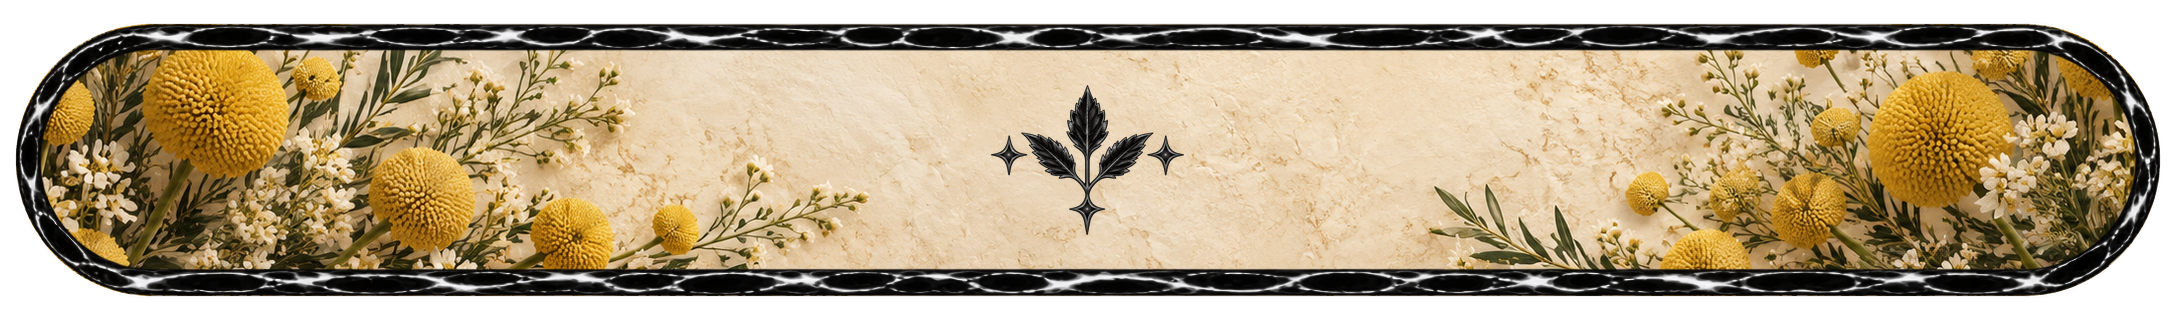
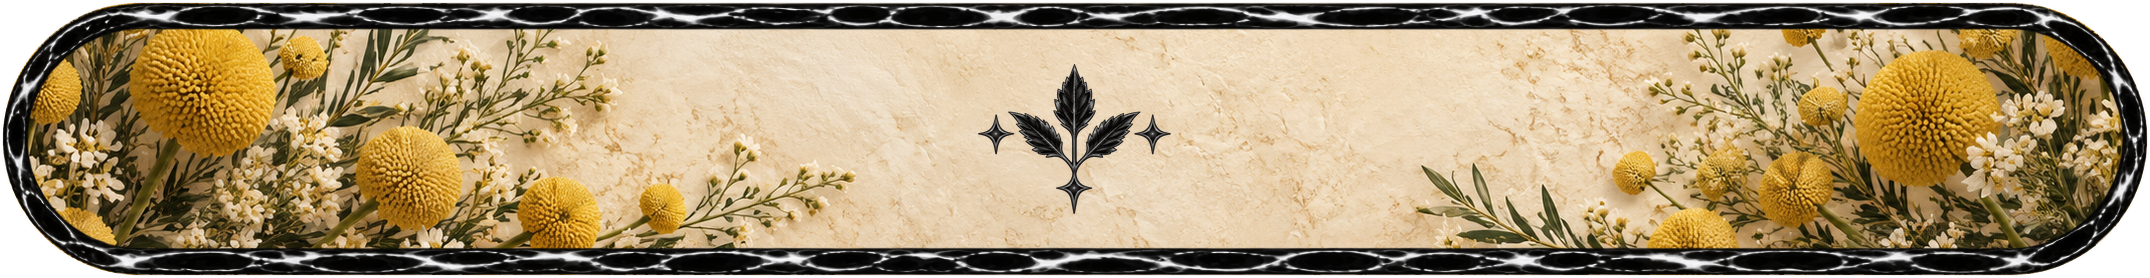
Updated footers

diff --git a/src/ky_bot/views/settings.py b/src/ky_bot/views/settings.py
@@ -56,7 +56,12 @@ class SettingsView(discord.ui.LayoutView):
             "welcome": "SERVER CONFIGURATION / WELCOME",
             "logging": "SERVER CONFIGURATION / LOGGING",
         }[section]
-        panel.add_item(discord.ui.TextDisplay(f"-# {title}"))
+        if section == "overview":
+            panel.add_item(discord.ui.MediaGallery(discord.MediaGalleryItem(
+                "attachment://ky_settings_title.png", description="SERVER SETTINGS",
+            )))
+        else:
+            panel.add_item(discord.ui.TextDisplay(f"-# {title}"))
         if notice:
             panel.add_item(discord.ui.TextDisplay(notice))
 

diff --git a/src/ky_bot/cogs/settings.py b/src/ky_bot/cogs/settings.py
@@ -65,6 +65,10 @@ class ServerSettings(commands.Cog):
                 files("ky_bot").joinpath(
                     "assets", "footer", "ky_footer_floral_wreath_centered_framed.png"
                 ).open("rb"), filename="ky_settings_footer.png",
+            ), discord.File(
+                files("ky_bot").joinpath(
+                    "assets", "header", "ky_settings_title.png"
+                ).open("rb"), filename="ky_settings_title.png",
             )],
         )
         view.message = await interaction.original_response()

diff --git a/assets/branding/previews/render_settings_label.py b/assets/branding/previews/render_settings_label.py
@@ -8,7 +8,7 @@ mask = text_mask('SERVER SETTINGS', role='display', size=44, min_size=44, max_wi
 lettering = Image.new('RGBA', mask.size, '#D8BB78')
 lettering.putalpha(mask)
 label = Image.new('RGBA', (1600, 80))
-label.alpha_composite(lettering, (0, (80-mask.height)//2))
+label.alpha_composite(lettering, (48, (80-mask.height)//2))
 label.save(out / 'server_settings_vonca_gold.png')
 preview = Image.new('RGBA', (1680, 650), '#2b2d38')
 header = Image.open(root / 'src/ky_bot/assets/header/ky_header_command_center.png').convert('RGBA')
